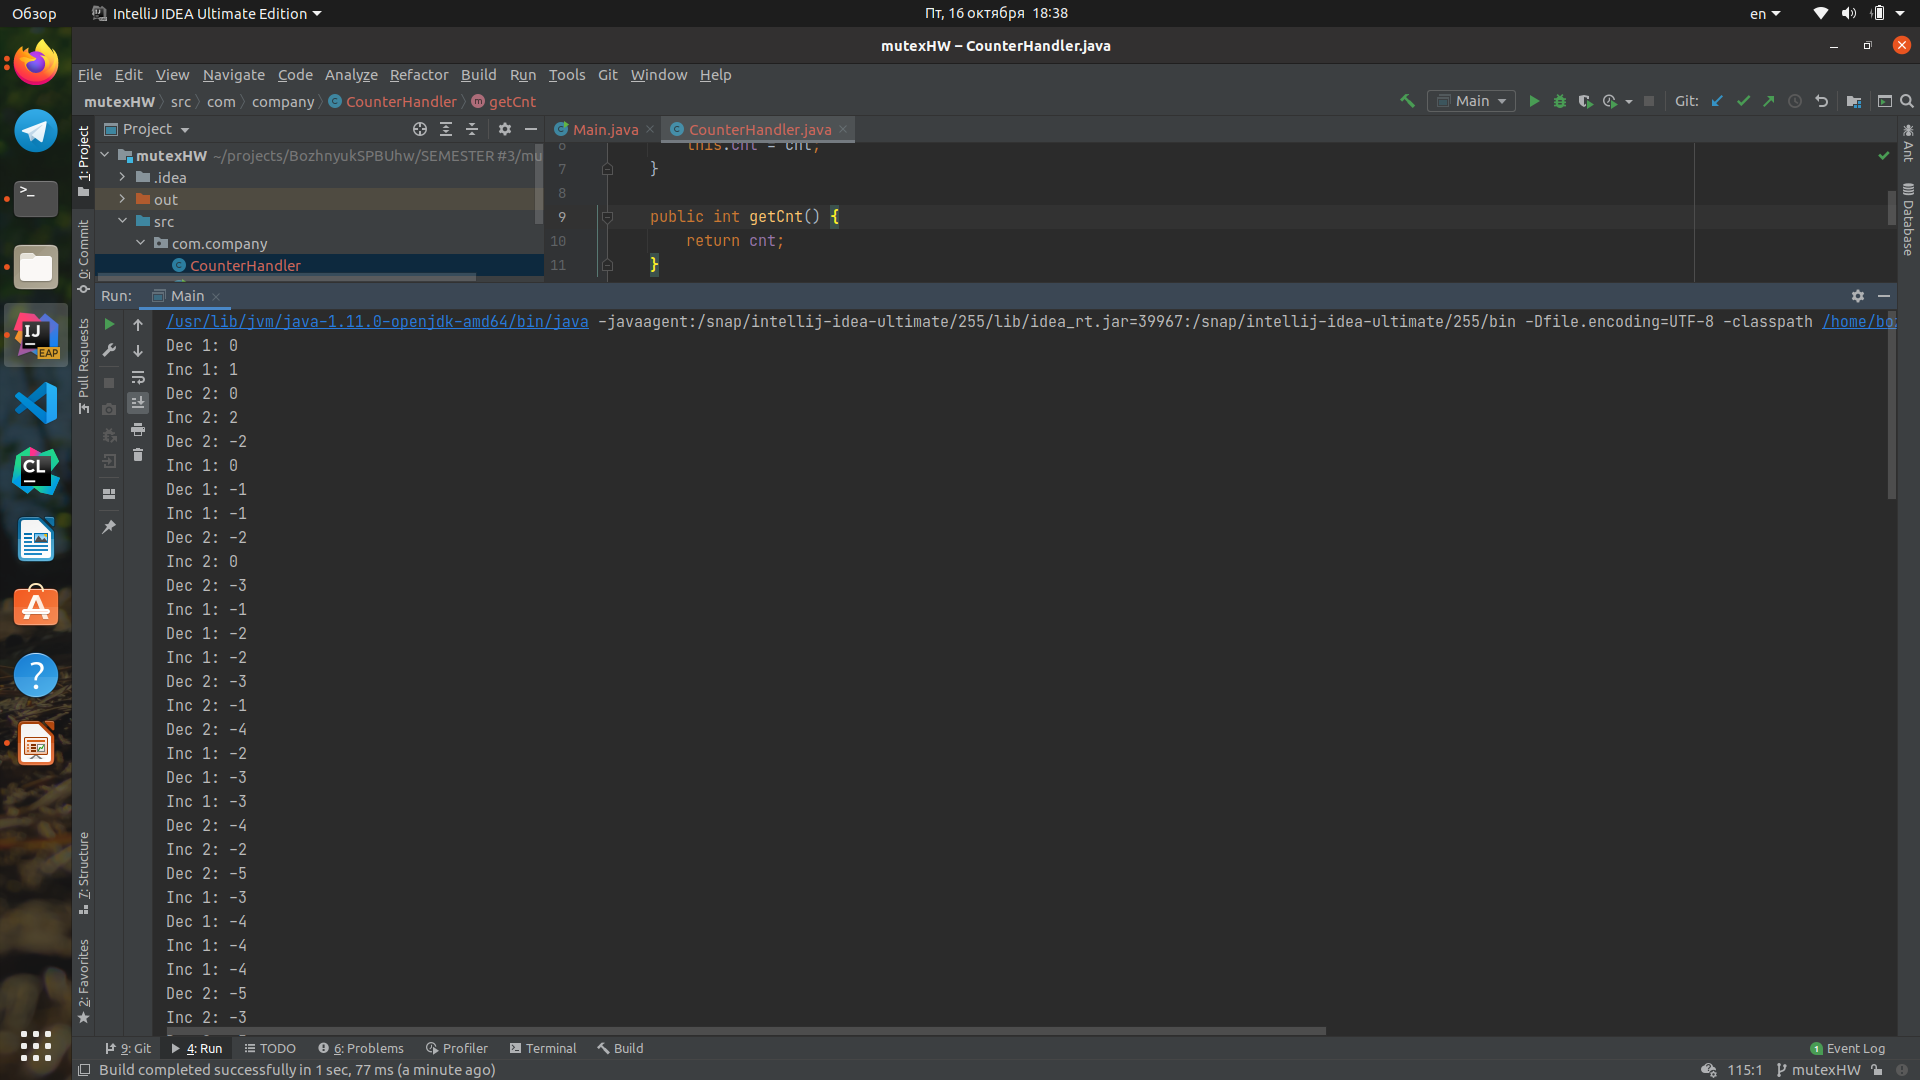
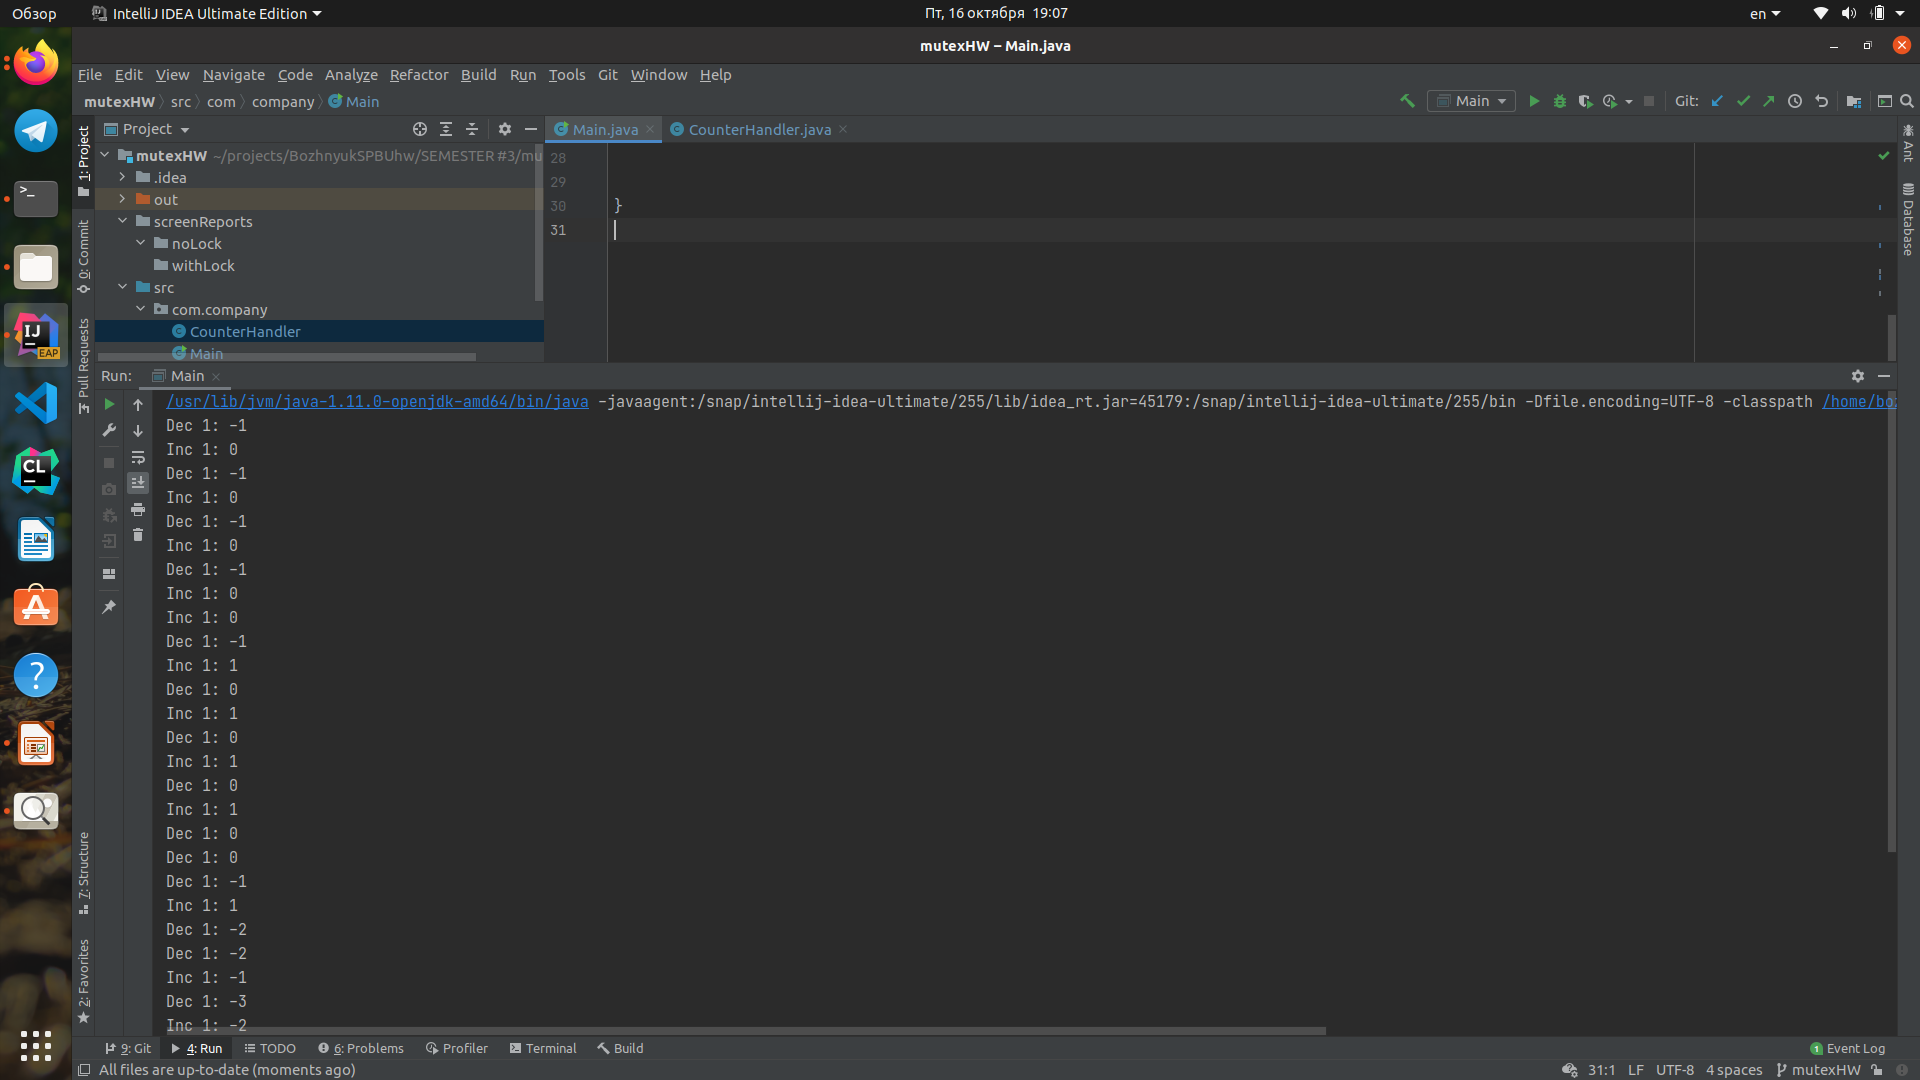
bad code changed and code with lock implemented

diff --git a/SEMESTER #3/mutexHW/src/com/company/Main.java b/SEMESTER #3/mutexHW/src/com/company/Main.java
@@ -5,43 +5,22 @@ public class Main {
     public static void main(String[] args) throws InterruptedException {
         CounterHandler ch = new CounterHandler(0);
         Thread incTh = new Thread(() -> {
-            for (int i = 0; i < 15; i++) {
+            for (int i = 0; i < 16; i++) {
                 ch.inc();
                 System.out.println("Inc 1: " + ch.getCnt());
             }
 
         });
         Thread decTh = new Thread(() -> {
-            for (int i = 0; i < 25; i++) {
+            for (int i = 0; i < 16; i++) {
                 ch.dec();
                 System.out.println("Dec 1: " + ch.getCnt());
             }
         });
-        Thread dblIncTh = new Thread(() -> {
-            for (int i = 0; i < 60; i++) {
-                ch.inc();
-                ch.inc();
-                System.out.println("Inc 2: " + ch.getCnt());
-            }
-        });
-        Thread dblDecTh = new Thread(() -> {
-            for (int i = 0; i < 10; i++) {
-                ch.dec();
-                ch.dec();
-                System.out.println("Dec 2: " + ch.getCnt());
-            }
-        });
-
-        incTh.start();
         decTh.start();
-        dblIncTh.start();
-        dblDecTh.start();
-
+        incTh.start();
         decTh.join();
         incTh.join();
-        dblDecTh.join();
-        dblIncTh.join();
-
 
         System.out.println("End!");
 

diff --git a/SEMESTER #3/mutexHW/src/com/company/CounterHandler.java b/SEMESTER #3/mutexHW/src/com/company/CounterHandler.java
@@ -1,9 +1,14 @@
 package com.company;
 
+import java.util.concurrent.locks.Lock;
+import java.util.concurrent.locks.ReentrantLock;
+
 public class CounterHandler {
     private int cnt;
+    private Lock mutex;
     public CounterHandler(int cnt) {
         this.cnt = cnt;
+        mutex = new ReentrantLock();
     }
 
     public int getCnt() {
@@ -11,10 +16,20 @@ public class CounterHandler {
     }
 
     public void inc() {
-        cnt++;
+        mutex.lock();
+        try {
+            cnt++;
+        } finally {
+            mutex.unlock();
+        }
     }
 
     public void dec() {
-        cnt--;
+        mutex.lock();
+        try {
+            cnt--;
+        } finally {
+            mutex.unlock();
+        }
     }
 }
